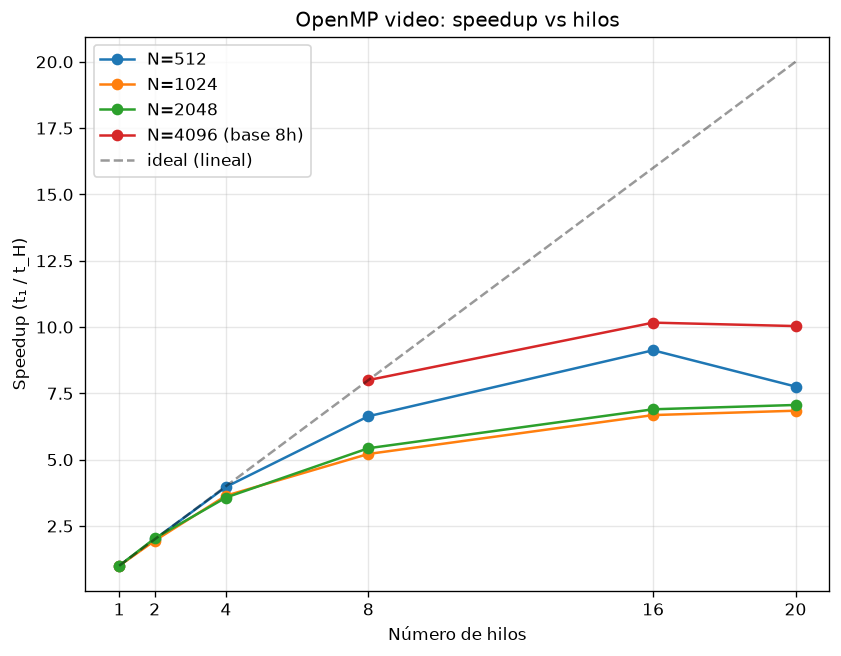
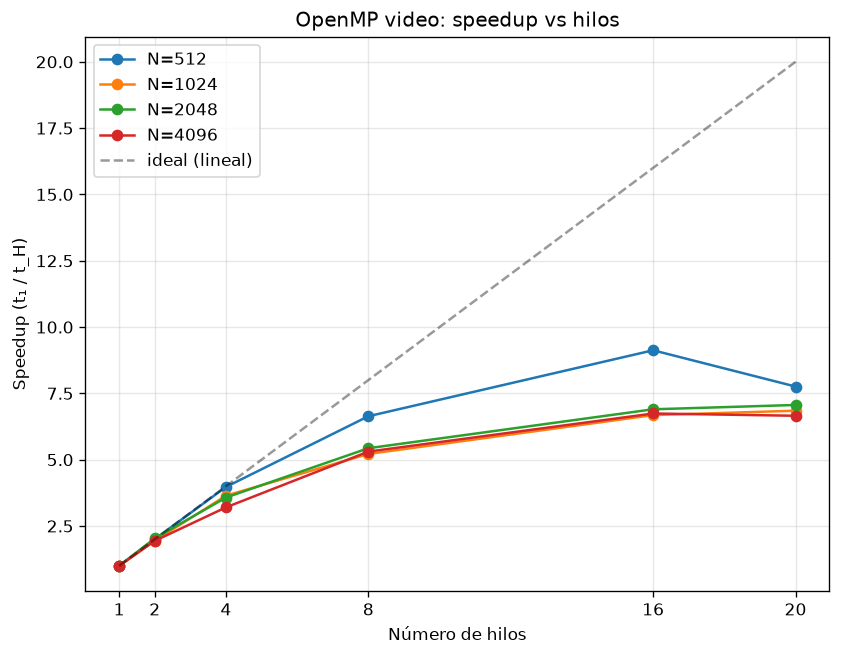
Retoque del Informe

diff --git a/README.md b/README.md
@@ -252,7 +252,8 @@ Para reducir el ruido, cada configuración se ejecutó múltiples veces (5 repet
 
 El test de validación confirmó que la transición entre la caída al horizonte y el escape al infinito de los rayos ocurre en el parámetro de impacto crítico teórico $b_{\text{crit}} = 3\sqrt{3} \approx 5.196$, lo que valida la implementación de la física.
 
-![Imagen del agujero negro](results/omp_image.ppm)
+![Imagen del agujero negro](results/image.png
+)
 
 **Figura 6.1.** *Imagen del agujero negro (modo imagen), mostrando la sombra central, el disco de acreción lensado y el fondo estelar. La forma de anillo del disco es consecuencia directa de la curvatura de la luz: se observa la parte del disco situada detrás del agujero, cuya luz es desviada hacia la cámara.*
 
@@ -289,7 +290,7 @@ La coincidencia con el factor teórico de 4.0 es prácticamente exacta, lo que v
 
 ![Speedup OpenMP imagen](results/analisis/omp_imagen_speedup.png)
 
-**Figura 6.3.** *Speedup de OpenMP en modo imagen frente al número de hilos (eje horizontal en escala lineal; se marcan únicamente los valores probados). La recta discontinua representa el escalado lineal ideal.*
+**Figura 6.3.** *Speedup de OpenMP en modo imagen frente al número de hilos. La recta discontinua representa el escalado lineal ideal.*
 
 La Tabla 6.2 detalla el speedup y la eficiencia a $4096^2$, donde el cómputo domina y el ruido de medición es mínimo.
 
@@ -338,34 +339,34 @@ El modo video, que genera una secuencia de fotogramas, constituye la carga inten
 | 512² | 14 291.0 | 2 211.0 | 1 348.2 | 10.6× |
 | 1024² | 58 624.9 | 8 989.3 | 2 327.9 | 25.2× |
 | 2048² | 237 138.9 | 35 310.8 | 9 142.1 | 25.9× |
-| 4096² | — | 145 808.0 | 36 105.0 | — |
+| 4096² | 966 874.2 | 145 808.0 | 36 105.0 | 26.8x |
 
 ![Cómputo vs resolución (video)](results/analisis/video_computo_vs_resolucion.png)
 
 **Figura 6.5.** *Tiempo de cómputo en función de la resolución para el modo video.*
 
-En esta carga la ventaja de la GPU es consistente y elevada (hasta ~26× frente a la versión secuencial en tiempo total), pues el overhead de inicialización se reparte entre todos los fotogramas. A $4096^2$ únicamente se completaron las versiones GPU y OpenMP: la versión secuencial resultó prohibitivamente lenta (a $2048^2$ ya requiere casi cuatro minutos), lo que por sí mismo ilustra la necesidad de la aceleración para cargas de esta magnitud.
+En esta carga la ventaja de la GPU es consistente y elevada (hasta ~26× frente a la versión secuencial en tiempo total), pues el overhead de inicialización se reparte entre todos los fotogramas.
 
 El análisis de escalabilidad de OpenMP en video revela un comportamiento **notablemente peor** que en imagen, como muestra la Tabla 6.5.
 
-**Tabla 6.5.** *Eficiencia de OpenMP en modo video, por resolución y número de hilos. Se contrasta con la eficiencia del modo imagen a 4096².*
+**Tabla 6.5.** *Eficiencia de OpenMP en modo video, por resolución y número de hilos.*
 
-| Hilos | Video 512² | Video 1024² | Video 2048² | Imagen 4096² |
+| Hilos | Video 512² | Video 1024² | Video 2048² | Video 4096² |
 |---:|---:|---:|---:|---:|
 | 1 | 100 % | 100 % | 100 % | 100 % |
-| 2 | 100 % | 97 % | 102 % | 100 % |
-| 4 | 99 % | 91 % | 89 % | 99 % |
-| 8 | 83 % | 65 % | 68 % | 87 % |
-| 16 | 57 % | 42 % | 43 % | 70 % |
-| 20 | 39 % | 34 % | 35 % | 66 % |
+| 2 | 100 % | 97 % | 102 % | 97 % |
+| 4 | 99 % | 91 % | 89 % | 80 % |
+| 8 | 83 % | 65 % | 68 % | 66 % |
+| 16 | 57 % | 42 % | 43 % | 42 % |
+| 20 | 39 % | 34 % | 35 % | 33 % |
 
 ![Speedup OpenMP video](results/analisis/omp_video_speedup.png)
 
-**Figura 6.6.** *Speedup de OpenMP en modo video frente al número de hilos. La serie de $4096^2$ toma como base 8 hilos, por lo que su speedup se expresa relativo a esa configuración.*
+**Figura 6.6.** *Speedup de OpenMP en modo video frente al número de hilos.*
 
-La eficiencia en video decae mucho más rápido que en imagen: con 20 hilos cae al 34–39 %, frente al 66 % del modo imagen. El caso más ilustrativo es el de $512^2$, donde el speedup con 20 hilos (7.76×) es **inferior** al obtenido con 16 hilos (9.12×): añadir hilos llega a empeorar el rendimiento. La causa es la mayor **fracción secuencial** del modo video: por cada fotograma se lee el archivo de escena, se calculan las órbitas y, sobre todo, se guarda la imagen en disco. Este último es un cuello de botella de entrada/salida que no se paraleliza y que, conforme a la ley de Amdahl, limita el speedup; al aumentar los hilos, el tiempo de cómputo se reduce pero el de E/S permanece constante, hasta dominar el total. En la resolución más pequeña, donde el cómputo por fotograma es menor, este efecto es más acusado, hasta el punto de que la contención por el acceso a disco supera la ganancia de más hilos.
+La eficiencia en video decae mucho más rápido que en imagen: con 20 hilos cae al 33–39 %. El caso más ilustrativo es el de $512^2$, donde el speedup con 20 hilos (7.76×) es **inferior** al obtenido con 16 hilos (9.12×): añadir hilos llega a empeorar el rendimiento. La causa es la mayor **fracción secuencial** del modo video: por cada fotograma se lee el archivo de escena, se calculan las órbitas y, sobre todo, se guarda la imagen en disco. Este último es un cuello de botella de entrada/salida que no se paraleliza y que, conforme a la ley de Amdahl, limita el speedup; al aumentar los hilos, el tiempo de cómputo se reduce pero el de E/S permanece constante, hasta dominar el total. En la resolución más pequeña, donde el cómputo por fotograma es menor, este efecto es más acusado, hasta el punto de que la contención por el acceso a disco supera la ganancia de más hilos.
 
-![Frame del video con anillo de Einstein](results/analisis/frame_einstein.png)
+![Frame del video con anillo de Einstein](results/frame_einstein.png)
 
 **Figura 6.7.** *Fotograma del modo video mostrando el efecto de lente gravitacional sobre una esfera en órbita que pasa detrás del agujero negro, formando un anillo de Einstein.*
 
@@ -377,7 +378,7 @@ El presente trabajo implementó y comparó tres estrategias de cómputo —secue
 
 **Sobre la correctitud física.** La implementación reproduce el parámetro de impacto crítico teórico $b_{\text{crit}} = 3\sqrt{3} \approx 5.196$, lo que valida la correcta integración de las geodésicas de Schwarzschild. Las imágenes generadas muestran de forma físicamente consistente la sombra del agujero negro, el disco de acreción lensado y el efecto de lente gravitacional sobre objetos en órbita, incluyendo anillos de Einstein.
 
-**Sobre la paralelización en CPU.** La versión OpenMP alcanzó un speedup máximo de ≈13× con 20 hilos en modo imagen. El escalado es prácticamente ideal hasta 4 hilos (eficiencia ≥ 99 %) y decae hasta el 66 % con 20 hilos, de forma coherente con la ley de Amdahl y el hyperthreading. En modo video, la eficiencia cae aún más (hasta 34–39 %), e incluso se observó rendimiento decreciente al pasar de 16 a 20 hilos en la resolución más baja, debido al cuello de botella de entrada/salida al guardar cada fotograma. Este contraste ilustra un principio fundamental de HPC: **el speedup alcanzable está limitado por la fracción no paralelizable del programa**, que en el modo video es considerablemente mayor.
+**Sobre la paralelización en CPU.** La versión OpenMP alcanzó un speedup máximo de ≈13× con 20 hilos en modo imagen. El escalado es prácticamente ideal hasta 4 hilos (eficiencia ≥ 99 %) y decae hasta el 66 % con 20 hilos, de forma coherente con la ley de Amdahl y el hyperthreading. En modo video, la eficiencia cae aún más (hasta 33–39 %), e incluso se observó rendimiento decreciente al pasar de 16 a 20 hilos en la resolución más baja, debido al cuello de botella de entrada/salida al guardar cada fotograma. Este contraste ilustra un principio fundamental de HPC: **el speedup alcanzable está limitado por la fracción no paralelizable del programa**, que en el modo video es considerablemente mayor.
 
 **Sobre la paralelización en GPU.** La GPU demostró una capacidad de cómputo bruto muy superior, siendo más de **1 200× más rápida** que la versión secuencial en cómputo puro. Sin embargo, el análisis del tiempo total reveló un overhead de inicialización de ≈550 ms fijos más un costo creciente por transferencia de datos. Como consecuencia, el speedup real en tiempo total varía enormemente según el tamaño del problema: de apenas 3.2× a 512² hasta 28.4× a 4096².
 
@@ -396,8 +397,5 @@ En síntesis, el trabajo cumplió su doble objetivo: reprodujo de forma físicam
 2. Schutz, B. *A First Course in General Relativity*. Cambridge University Press.
 3. Documentación oficial de Vulkan. Khronos Group. https://docs.vulkan.org
 4. Documentación de OpenMP. https://www.openmp.org
-5. _[Tutorial de Vulkan de Khronos y demás recursos utilizados.]_
 
 ---
-
-_Las secciones marcadas con «_[...]_» deben completarse con la información del entorno de pruebas y las imágenes generadas._

diff --git a/results/analisis/tabla_resumen.md b/results/analisis/tabla_resumen.md
@@ -66,7 +66,11 @@
 | omp | 2048 | 20 | 34894.8 | 35310.8 |
 | serial | 2048 | 1 | 236871.0 | 237138.9 |
 | gpu | 4096 | - | 35839.2 | 36105.0 |
+| omp | 4096 | 1 | 966442.5 | 966874.2 |
+| omp | 4096 | 2 | 498075.5 | 498534.2 |
+| omp | 4096 | 4 | 301726.8 | 302210.6 |
 | omp | 4096 | 8 | 182181.2 | 182693.5 |
 | omp | 4096 | 16 | 143356.4 | 143914.2 |
 | omp | 4096 | 20 | 145201.4 | 145808.0 |
+| serial | 4096 | 1 | 966442.5 | 966874.2 |
 